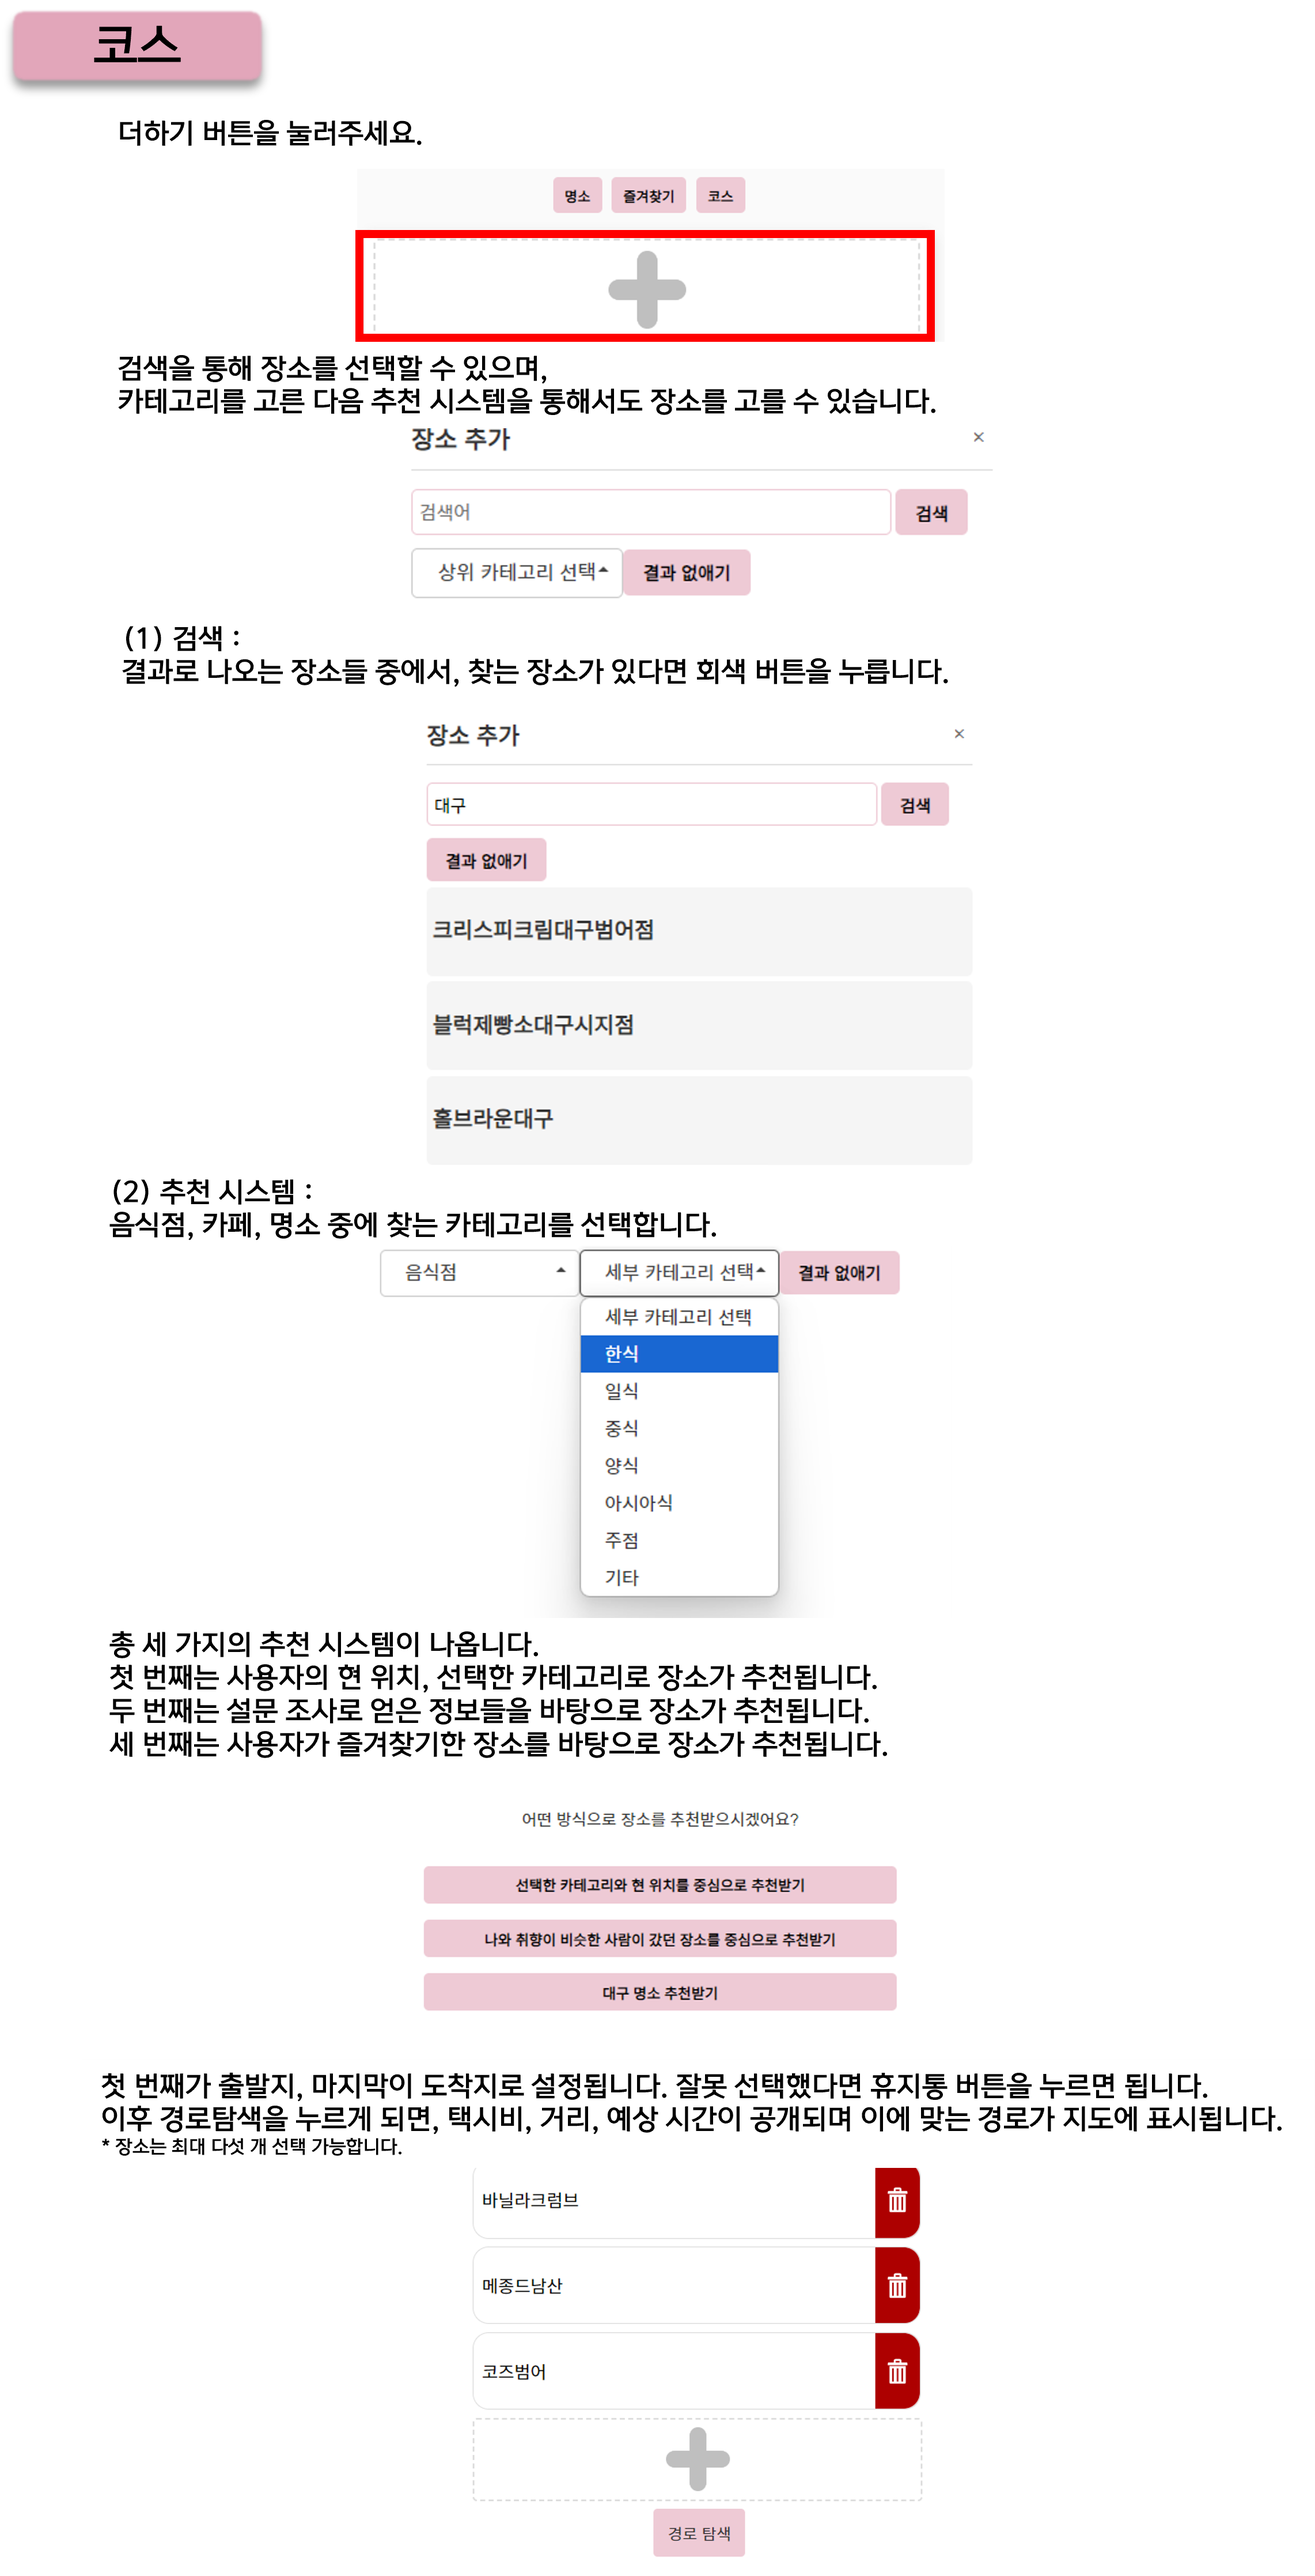
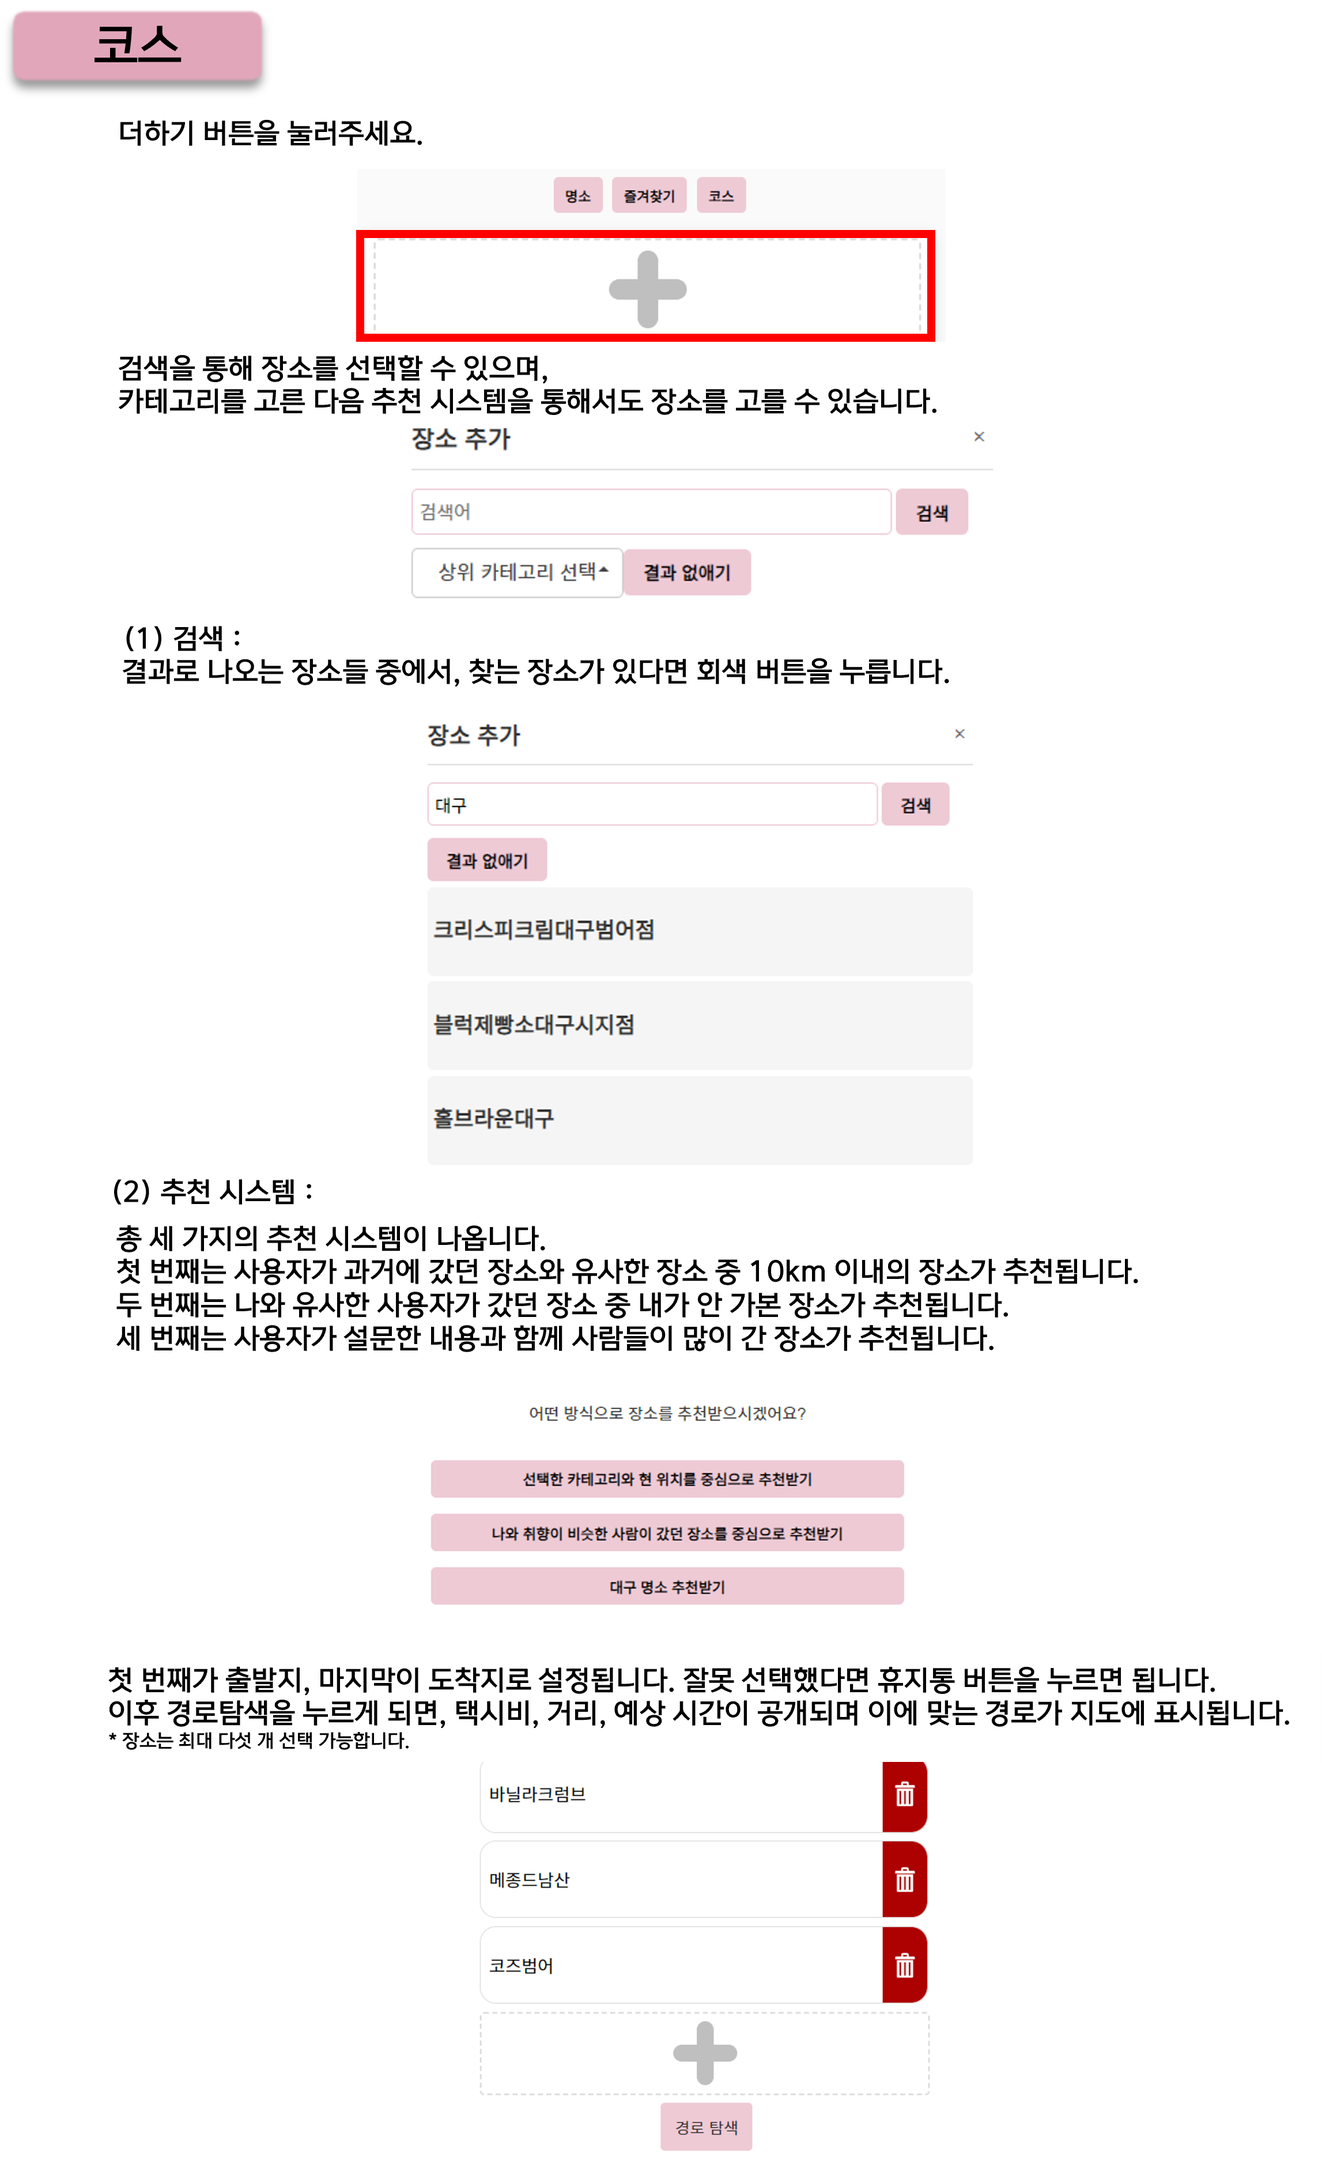
카테고리 삭제

Changed region(s): [[0.0622, 0.4351, 0.9641, 0.9323], [0.0, 0.0, 0.7464, 0.4351], [0.4976, 0.9323, 0.5909, 0.9944]]

diff --git a/src/MainPage.js b/src/MainPage.js
@@ -47,25 +47,8 @@ function MainPage({ loggedInUser, handleLogout }) {
   const [routeKeyword, setRouteKeyword] = useState("");
   const [routeKeywordResult, setRouteKeywordResult] = useState([]);
   const [courseCoordinates, setCourseCoordinates] = useState([]);
-  const [selectedCategory, setSelectedCategory] = useState(false);
   const [isInfoModalOpen, setIsInfoModalOpen] = useState(false);
   const searchTimeout = useRef();
-
-  const handleCategoryChange = (e) => {
-    setSelectedCategory(e.target.value);
-  };
-
-  const subCategories = {
-    food: [
-      { value: "한식", label: "한식" },
-      { value: "일식", label: "일식" },
-      { value: "중식", label: "중식" },
-      { value: "양식", label: "양식" },
-      { value: "아시아식", label: "아시아식" },
-      { value: "주점", label: "주점" },
-      { value: "미분류", label: "기타" },
-    ],
-  };
 
   const handleResize = () => {
     setIsMobile(window.innerWidth <= 768);
@@ -541,10 +524,10 @@ function MainPage({ loggedInUser, handleLogout }) {
     setRouteCourse((prev) => prev.filter((_, i) => i !== index));
   };
 
-  const handleRecommendSimilarPlace = async (selectedCategory) => {
+  const handleRecommendSimilarPlace = async () => {
     try {
       const response = await axios.post(
-        `http://ec2-13-125-211-97.ap-northeast-2.compute.amazonaws.com:5000/places/recommend/content/${selectedCategory}?page=1&size=50`,
+        `http://ec2-13-125-211-97.ap-northeast-2.compute.amazonaws.com:5000/places/recommend/content/good?page=1&size=50`,
         {
           user_id: userId,
           latitude: location.coordinates.lat,
@@ -564,10 +547,10 @@ function MainPage({ loggedInUser, handleLogout }) {
     }
   };
 
-  const handleRecommendCollaborativePlace = async (selectedCategory) => {
+  const handleRecommendCollaborativePlace = async () => {
     try {
       const response = await axios.post(
-        `http://ec2-13-125-211-97.ap-northeast-2.compute.amazonaws.com:5000/places/recommend/collaborative/${selectedCategory}?page=1&size=50`,
+        `http://ec2-13-125-211-97.ap-northeast-2.compute.amazonaws.com:5000/places/recommend/collaborative/good?page=1&size=50`,
         {
           user_id: userId,
           latitude: location.coordinates.lat,
@@ -584,7 +567,7 @@ function MainPage({ loggedInUser, handleLogout }) {
       setRouteKeywordResult(result);
     } catch (error) {
       if (error.response.data.detail === "places not found") {
-        alert("추천된 장소가 없습니다. 다른 카테고리로 지정해주세요.");
+        alert("추천된 장소가 없습니다.");
       }
       console.error("Error getting places by category:", error);
     }
@@ -886,29 +869,6 @@ function MainPage({ loggedInUser, handleLogout }) {
           </button>
         </div>
         <div>
-          {routeKeywordResult.length === 0 && (
-            <>
-              <select onChange={handleCategoryChange} value={selectedCategory}>
-                <option value="상위">상위 카테고리 선택</option>
-                <option value="food">음식점</option>
-                <option value="카페">카페</option>
-                <option value="명소">명소</option>
-              </select>
-              {selectedCategory === "food" && (
-                <select
-                  onChange={handleCategoryChange}
-                  value={selectedCategory}
-                >
-                  <option value="세부">세부 카테고리 선택</option>
-                  {subCategories.food.map((sub) => (
-                    <option key={sub.value} value={sub.value}>
-                      {sub.label}
-                    </option>
-                  ))}
-                </select>
-              )}
-            </>
-          )}
           <button
             className="search-button"
             onClick={() => {
@@ -918,42 +878,31 @@ function MainPage({ loggedInUser, handleLogout }) {
             결과 없애기
           </button>
         </div>
-        {routeKeywordResult.length == 0 &&
-          (selectedCategory === "카페" ||
-            selectedCategory === "명소" ||
-            selectedCategory === "한식" ||
-            selectedCategory === "일식" ||
-            selectedCategory === "중식" ||
-            selectedCategory === "양식" ||
-            selectedCategory === "아시아식" ||
-            selectedCategory === "주점" ||
-            selectedCategory === "기타") && (
-            <div className="recommend-container">
-              <p style={{ textAlign: "center" }}>
-                어떤 방식으로 장소를 추천받으시겠어요?
-              </p>
-              <button
-                className="recommend-button"
-                onClick={() => handleRecommendSimilarPlace(selectedCategory)}
-              >
-                선택한 카테고리와 현 위치를 중심으로 추천받기
-              </button>
-              <button
-                className="recommend-button"
-                onClick={() =>
-                  handleRecommendCollaborativePlace(selectedCategory)
-                }
-              >
-                나와 취향이 비슷한 사람이 갔던 장소를 중심으로 추천받기
-              </button>
-              <button
-                className="recommend-button"
-                onClick={handleRecommendClusterPlace}
-              >
-                대구 명소 추천받기
-              </button>
-            </div>
-          )}
+        {routeKeywordResult.length == 0 && (
+          <div className="recommend-container">
+            <p style={{ textAlign: "center" }}>
+              어떤 방식으로 장소를 추천받으시겠어요?
+            </p>
+            <button
+              className="recommend-button"
+              onClick={() => handleRecommendSimilarPlace()}
+            >
+              선택한 카테고리와 현 위치를 중심으로 추천받기
+            </button>
+            <button
+              className="recommend-button"
+              onClick={() => handleRecommendCollaborativePlace()}
+            >
+              나와 취향이 비슷한 사람이 갔던 장소를 중심으로 추천받기
+            </button>
+            <button
+              className="recommend-button"
+              onClick={handleRecommendClusterPlace}
+            >
+              대구 명소 추천받기
+            </button>
+          </div>
+        )}
         {routeKeywordResult.map((routeKeyword, index) => {
           return (
             <div
